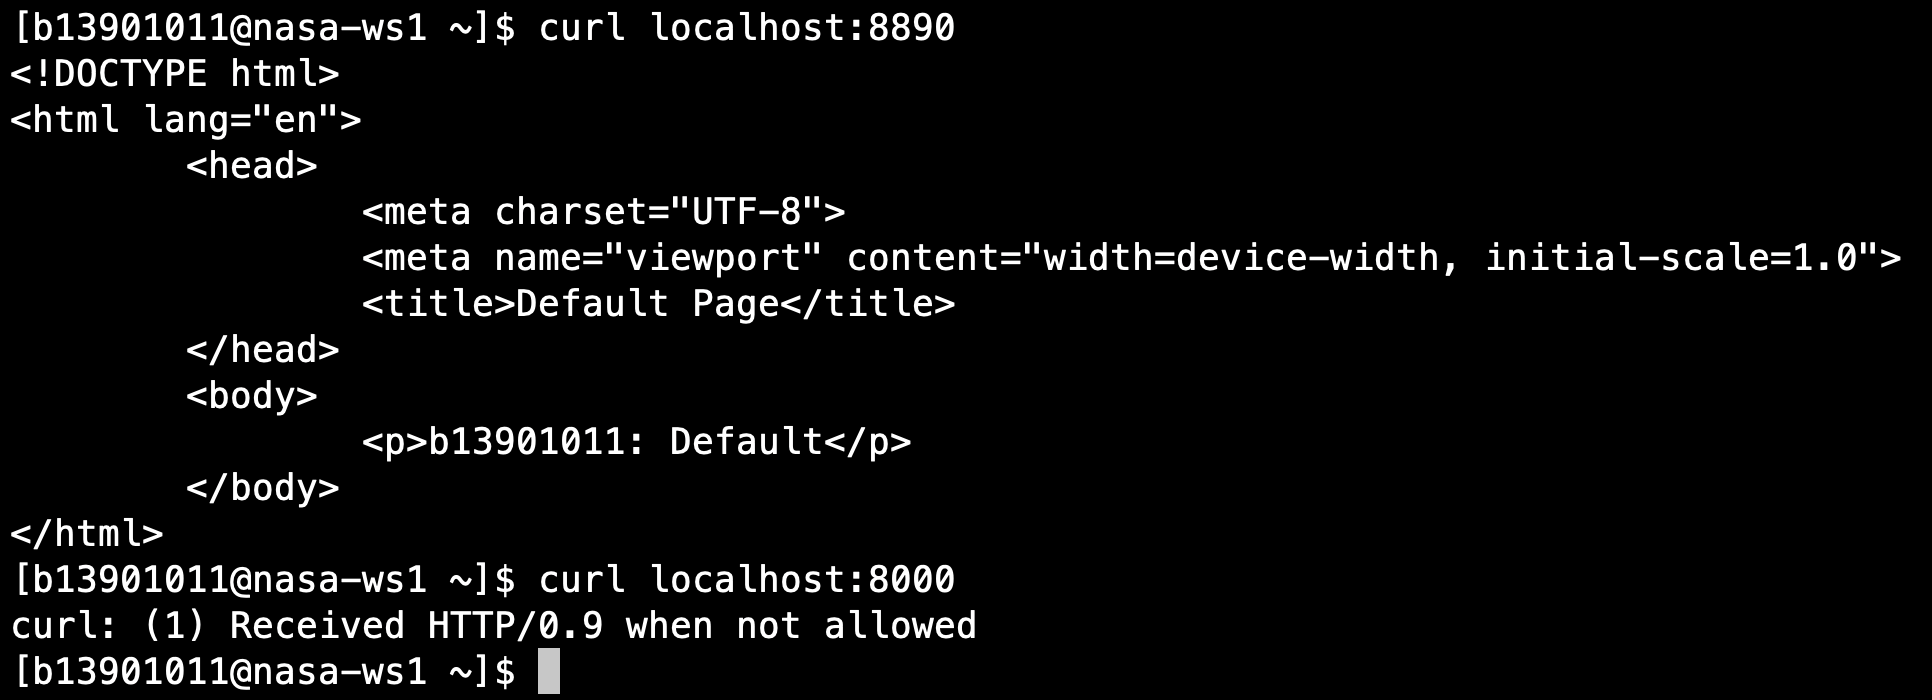
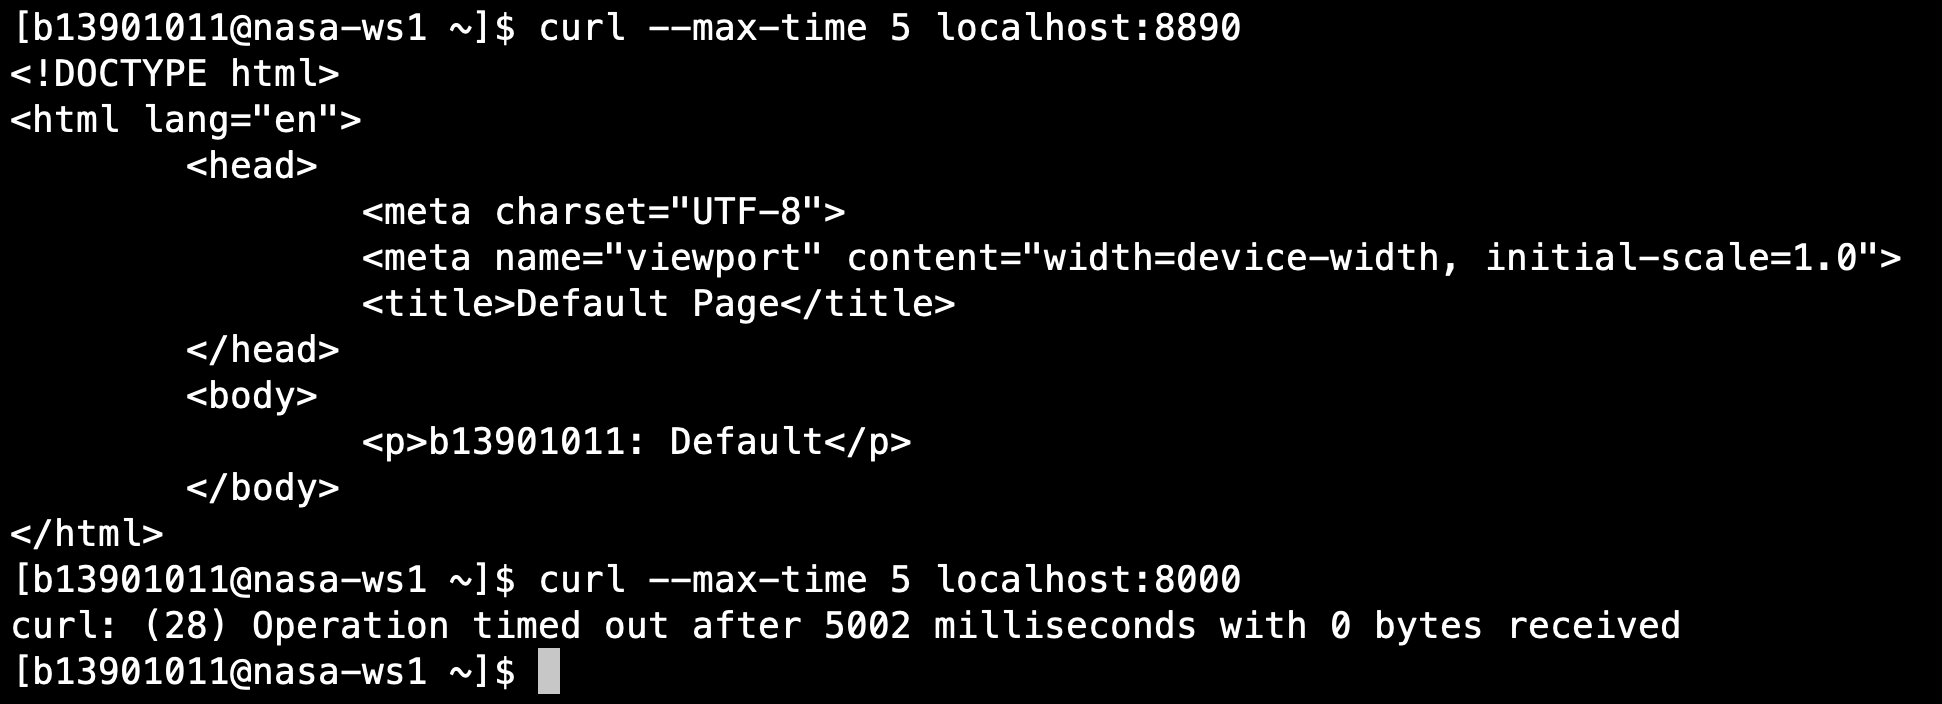
Update homework5 and homework6 files with new content, image additions, and configuration changes

diff --git a/homework5/hw5.tex b/homework5/hw5.tex
@@ -638,6 +638,7 @@ mysql -u powerdns_user -p powerdns < /usr/share/pdns-backend-mysql/schema/schema
   \begin{enumerate}
     \item 使用 \texttt{pdnsutil show-zone cscat.tw} 指令，顯示 cscat.tw 的 DS 紀錄。
     \item 修改 \texttt{/etc/powerdns/recursor.conf} 的 \texttt{dnssec} 段落內容，加入回傳的結果：
+    \begin{footnotesize}
     \begin{minted}{yaml}
       dnssec:
         validation: validate
@@ -647,6 +648,8 @@ mysql -u powerdns_user -p powerdns < /usr/share/pdns-backend-mysql/schema/schema
               - "46887 13 2 dc86d09ec16e171163529129efaf365d9d7a35e98c0ad5a7254b3aa2874d66c2"
               - "46887 13 4 bd65374dacead19f448f4ca0c310709c2e5a05d5b5f3fe5484c29d9f1d3e59fa6602efe771e5627b0ab5b4671e88d493"
     \end{minted}
+    \end{footnotesize}
+
 
     \item 重啟 PowerDNS Recursor 服務，並重新查詢 cscat.tw 的 DNS 紀錄。
     \begin{minted}{bash}
@@ -707,6 +710,12 @@ mysql -u powerdns_user -p powerdns < /usr/share/pdns-backend-mysql/schema/schema
     \item \url{https://www.dnsdist.org/install.html}
     \item \url{https://www.dnsdist.org/quickstart.html}
     \item \url{https://www.dnsdist.org/reference/config.html}
+    \item \url{https://www.dnsdist.org/advanced/luaaction.html}
+    \item \url{https://www.dnsdist.org/reference/dnsparser.html}
+    \item \url{https://www.cloudflare.com/zh-tw/learning/dns/dns-over-tls/}
+    \item 
+    \item 
+    \item 
   \end{itemize}
 \end{mycolorbox}
 
@@ -732,26 +741,102 @@ mysql -u powerdns_user -p powerdns < /usr/share/pdns-backend-mysql/schema/schema
     \item 使用 dig 指令測試，得到以下結果：
     \begin{figure}[H]
       \centering
-      \includegraphics[width=0.6\textwidth]{3-1-1.png}
+      \includegraphics[width=0.7\textwidth]{3-1-1.png}
       \caption{\texttt{dig @localhost -p 53 google.com} 的結果}
     \end{figure}
   \end{enumerate}
 \end{problem}
 
 \begin{problem}{3.1.2} 　
+  \begin{enumerate}
+    \item 我在 \texttt{/etc/dnsdist/dnsdist.conf} 當中，加入以下的內容：
+    \begin{minted}{lua}
+      function filterLongTXT(dq)
+        local packet = dq:getContent()
+        local overlay = newDNSPacketOverlay(packet)
+        local count = overlay:getRecordsCountInSection(DNSSection.Answer)
+
+        if overlay.qtype == DNSQueryType.TXT then
+          local totalLen = 0
+          for idx=0, count-1 do
+            local record = overlay:getRecord(idx)
+            if record.type == DNSQueryType.TXT then
+              totalLen = totalLen + record.contentLength
+            end
+          end
+
+          if totalLen > 70 then
+            return DNSResponseAction.Drop
+          end
+        end
+        return DNSResponseAction.Allow
+      end
+
+      addResponseAction(AllRule(), LuaResponseAction(filterLongTXT))
+      addAction(MaxQPSIPRule(20), DropAction())
+      addAction(RegexRule(".*\\.csdog\\.tw$"), DropAction())
+    \end{minted}
+  \item 以 \texttt{sudo systemctl restart dnsdist} 重啟 dnsdist 服務。
+\end{enumerate}
+
 \end{problem}
 
 \subsection{DNS-over-TLS}
 
 
 \begin{problem}{3.2.1} 　
+  \begin{enumerate}[label=(\alph*)]
+    \item DNS-over-TLS 是在 DNS 查詢時使用的 UDP 基礎上，多包了一層 TLS 加密的協定，這樣可以確保 DNS 查詢的內容不會被第三方竊聽或篡改。如此一來可以確保 DNS 請求不容易受到中間人攻擊的影響。
+    \item  DNS-over-HTTPS (DoH) 與 DNS-over-TLS (DoT) 的比較如下：
+    \begin{table}[H]
+      \centering
+      \begin{tabular}{lllll}
+        \toprule
+        & \textbf{Port} & \textbf{加密機制} & \texttt{效能} & \texttt{安全性}\\
+        \midrule
+        \textbf{DoT} & 853 & TLS 加密並透過 UDP 傳送 & 較快 & 有特定連接阜供管理員監控與封鎖 \\
+        \textbf{DoH} & 443 & HTTPS 加密後透過 HTTP 傳送 & 較慢 & 封包隱藏在 https 當中，隱蔽性較高\\
+        \bottomrule
+      \end{tabular}
+    \end{table}
+  \end{enumerate}
 \end{problem}
 
 \begin{problem}{3.2.2} 　
+  \begin{enumerate}
+    \item 安裝 openssl：
+    \begin{minted}{bash}
+      sudo apt install openssl
+    \end{minted}
+    \item 使用以下指令產生憑證，其中互動式選項隨意填寫即可：
+    \begin{small}
+      \begin{minted}{bash}
+        cd /etc/dnsdist
+        sudo openssl req -x509 -newkey rsa:4096 -keyout key.pem -out cert.pem -sha256 -days 365 -nodes
+      \end{minted}
+    \end{small}
+    \item 更改金鑰的所有者：
+    \begin{minted}{bash}
+      sudo ps aux | grep dnsdist # 查看 dnsdist 的使用者
+      sudo chown _dnsdist:_dnsdist /etc/dnsdist/cert.pem /etc/dnsdist/key.pem
+    \end{minted}
+    \item 修改 \texttt{/etc/dnsdist/dnsdist.conf} 的內容，新增如下：
+    \begin{small}
+      \begin{minted}{lua}
+        addTLSLocal('127.0.0.1:853', '/etc/dnsdist/cert.pem', '/etc/dnsdist/key.key')
+      \end{minted}
+    \end{small}
+    \item 重新啟動 dnsdist 服務。
+  \end{enumerate}
 \end{problem}
 
 
-\begin{problem}{3.2.3} 　
+\begin{problem}{3.2.3} 我分別測試了有加上 \texttt{+tls} 和沒加上的 dig 結果，如下：
+  \begin{figure}[H]
+    \centering
+    \includegraphics[width=0.67\textwidth]{3-2-3.png}
+    \caption{\texttt{dig} 的結果}
+  \end{figure}
 \end{problem}
 
 \clearpage

diff --git a/homework6/hw6.tex b/homework6/hw6.tex
@@ -327,9 +327,9 @@
       -boot d \
       -monitor stdio \
       -nic user,hostfwd=tcp::8890-:80,hostfwd=tcp::1102-:22,hostfwd=tcp::8000-:8000 \
-      -vnc :2100,password=on
+      -vnc :2150,password=on
   \end{minted}
-  其中，VM 的 port 22 映射到我的工作站 port 1102， port 80 映射到我的工作站 port 8890 的 port 8000 映射到我的工作站 port 8000。
+  其中，VM 的 port 22 映射到我的工作站 port 1102， port 80 映射到我的工作站 port 8890 的 port 8000 映射到我的工作站 port 8000，並且改掉 vnc 的 port 為 2150 以避開衝突。
   \item 我使用 \texttt{ssh localhost -p 1102} 成功的連線到 VM 上，代表 port 22 防火牆有設定好。
   \item 在 VM 中使用以下指令，在 port 8000 架設一個簡單的 HTTP Server。
   \begin{minted}{bash}
@@ -338,8 +338,8 @@
   \end{minted}
   \item 回到工作站，使用以下指令，確認 port 80 和 port 8000 的防火牆有設定好。
   \begin{minted}{bash}
-    curl localhost:8890 # port 80 of VM is 8890 of workstation
-    curl localhost:8000
+    curl --max-time 5 localhost:8890 # port 80 of VM is 8890 of workstation
+    curl --max-time 5 localhost:8000
   \end{minted}
   \begin{figure}[H]
     \centering